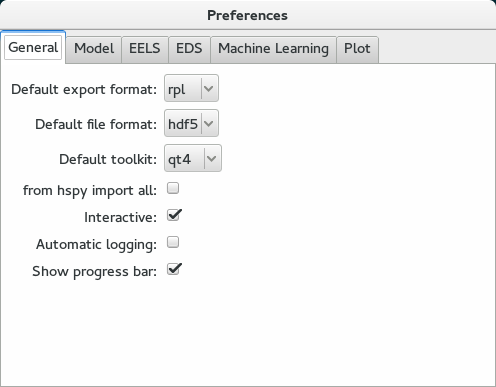
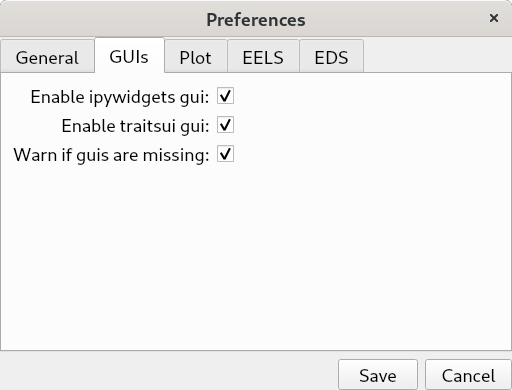
Explain possible warning when importing hyperspy in the user guide.

diff --git a/doc/user_guide/getting_started.rst b/doc/user_guide/getting_started.rst
@@ -67,11 +67,27 @@ that you have installed at least one of HyperSpy's GUI packages:
 and the
 `traitsui GUI <https://github.com/hyperspy/hyperspy_gui_traitsui>`_.
 
+Possible warning when importing HyperSpy?
+^^^^^^^^^^^^^^^^^^^^^^^^^^^^^^^^^^^^^^^^^
+
+HyperSpy support different GUIs and matplotlib backends which in specific cases 
+can lead to warnings when importing HyperSpy. There may be several causes for a
+warning, for example:
+
+* if not all the GUIs packages are installed: see below to deactivate this warning
+* if the matplotlib ``notebook`` backend is active, the traitsui GUI installed and 
+  selected in the preferences. A warning is raised because the notebook matplotlib 
+  backend is not compatible with the traitsui GUI.
+   * If you want to use the traitsui GUI, use the ``qt`` matplotlib backend in the 
+     notebook.
+   * Alternatively, if you prefer to use the ``notebook`` matplotlib backend, you can  
+     still use the ipywdigets GUIs and disable the traitsui GUI in the 
+     :ref:`preferences <configuring-hyperspy-label>`.
+
+
 By default, HyperSpy warns the user if one of the GUI packages is not installed.
 These warnings can be turned off using the
-:py:class:`~.defaults_parser.Preferences` GUI
-(see :ref:`here <configuring-hyperspy-label>` for more information) or
-programmatically as follows:
+:ref:`preferences <configuring-hyperspy-label>` GUI or programmatically as follows:
 
     .. code-block:: python
 
@@ -80,12 +96,10 @@ programmatically as follows:
        >>> hs.preferences.save()
 
 
-Now you are ready to load
-your data (see below).
-
 .. versionchanged:: v1.3
-    HyperSpy works with all matplotlib backends, including the nbagg backend
-    that enables interactive plotting embedded in the jupyter notebook.
+    HyperSpy works with all matplotlib backends, including the notebook 
+    (also called nbAgg) backend that enables interactive plotting embedded 
+    in the jupyter notebook.
 
 .. warning::
         When using the qt4 backend in Python 2 the matplotlib magic must be
@@ -103,11 +117,6 @@ your data (see below).
        >>> import matplotlib
        >>> matplotlib.rcParams["backend"] = "Agg"
        >>> import hyperspy.api as hs
-
-
-
-
-
 
 
 Getting help
@@ -199,7 +208,7 @@ of the signal class.
 .. _example-data-label:
 
 Loading example data and data from online databases
-----------------------------------------------------
+---------------------------------------------------
 
 HyperSpy is distributed with some example data that can be found in
 `hs.datasets.example_signals`. The following example plots one of the example
@@ -419,7 +428,7 @@ navigation dimensions:
 .. _quantity_and_converting_units:
 
 Using quantity and converting units
--------------------------------------------
+-----------------------------------
 
 The scale and the offset of each axis can be set and retrieved as quantity.
 
@@ -578,7 +587,7 @@ hyperspy gui packages are installed and enabled:
    Preferences user interface.
 
 .. versionadded:: 1.3
-    Possibility to enable/disable GUIs in the
+    Possibility to enable/disable GUIs in the preferences.
 
 It is also possible to set the preferences programmatically. For example,
 to disable the traitsui GUI elements and save the changes to disk:
@@ -587,6 +596,7 @@ to disable the traitsui GUI elements and save the changes to disk:
 
     >>> hs.preferences.GUIs.enable_traitsui_gui = False
     >>> hs.preferences.save()
+    >>> # if not saved, this setting will be used until the next jupyter kernel shutdown
 
 .. versionchanged:: 1.3
 
